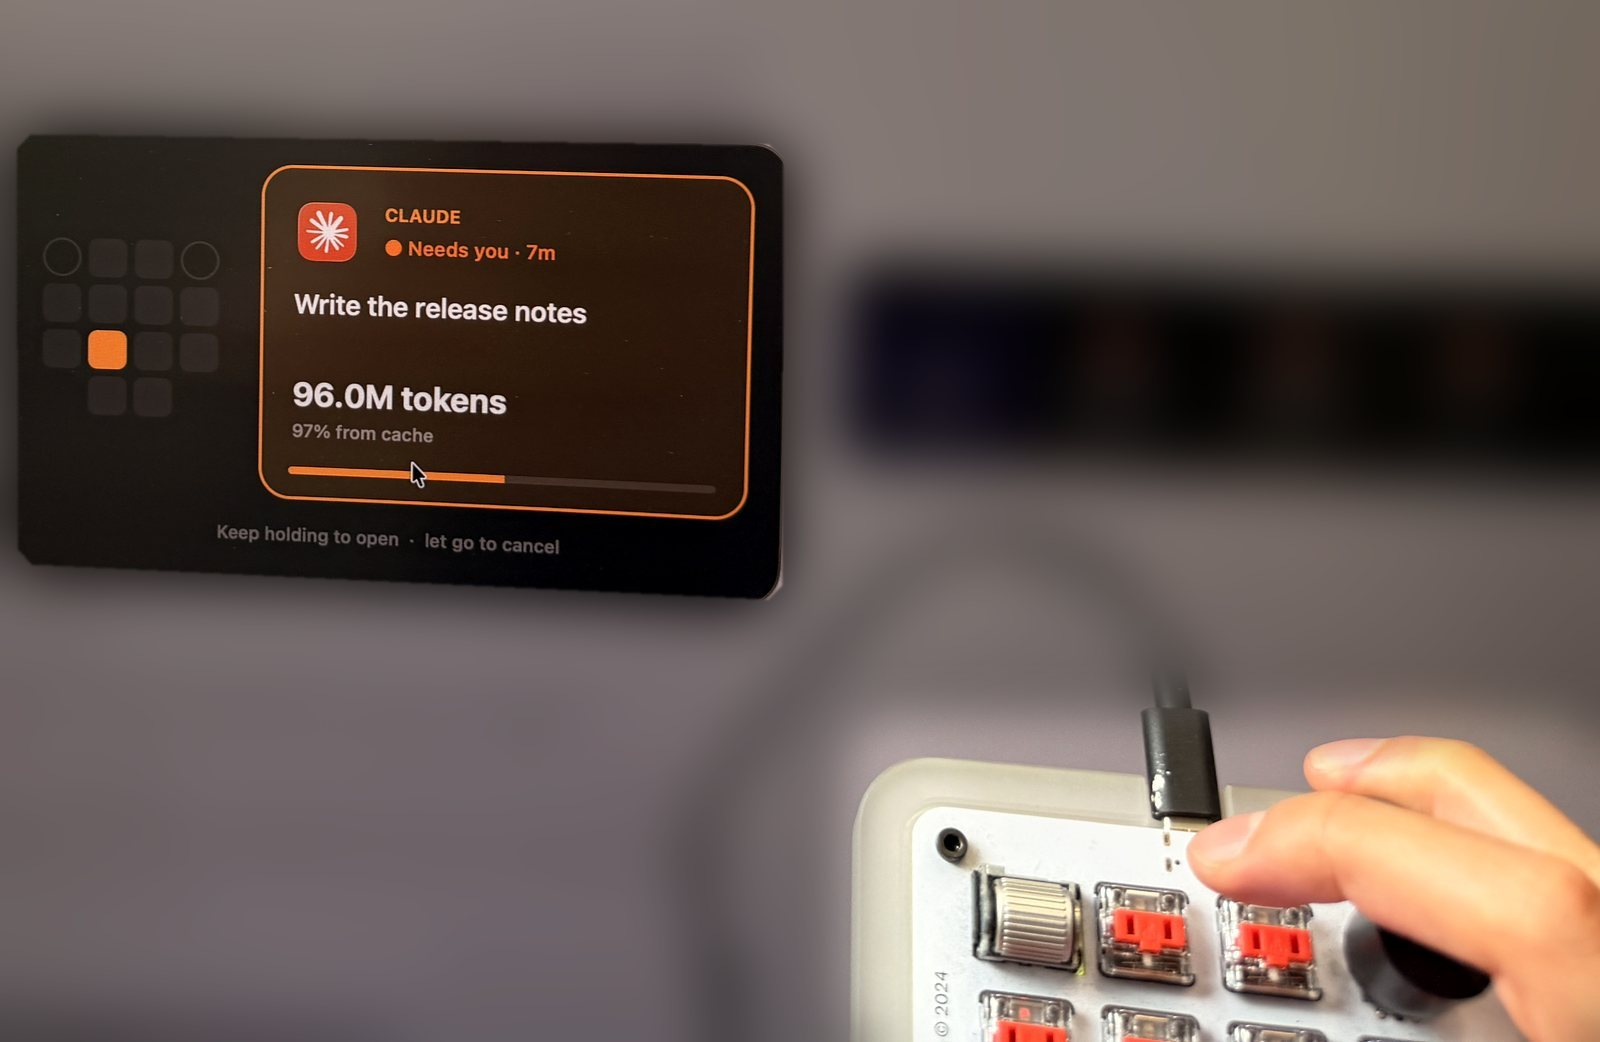
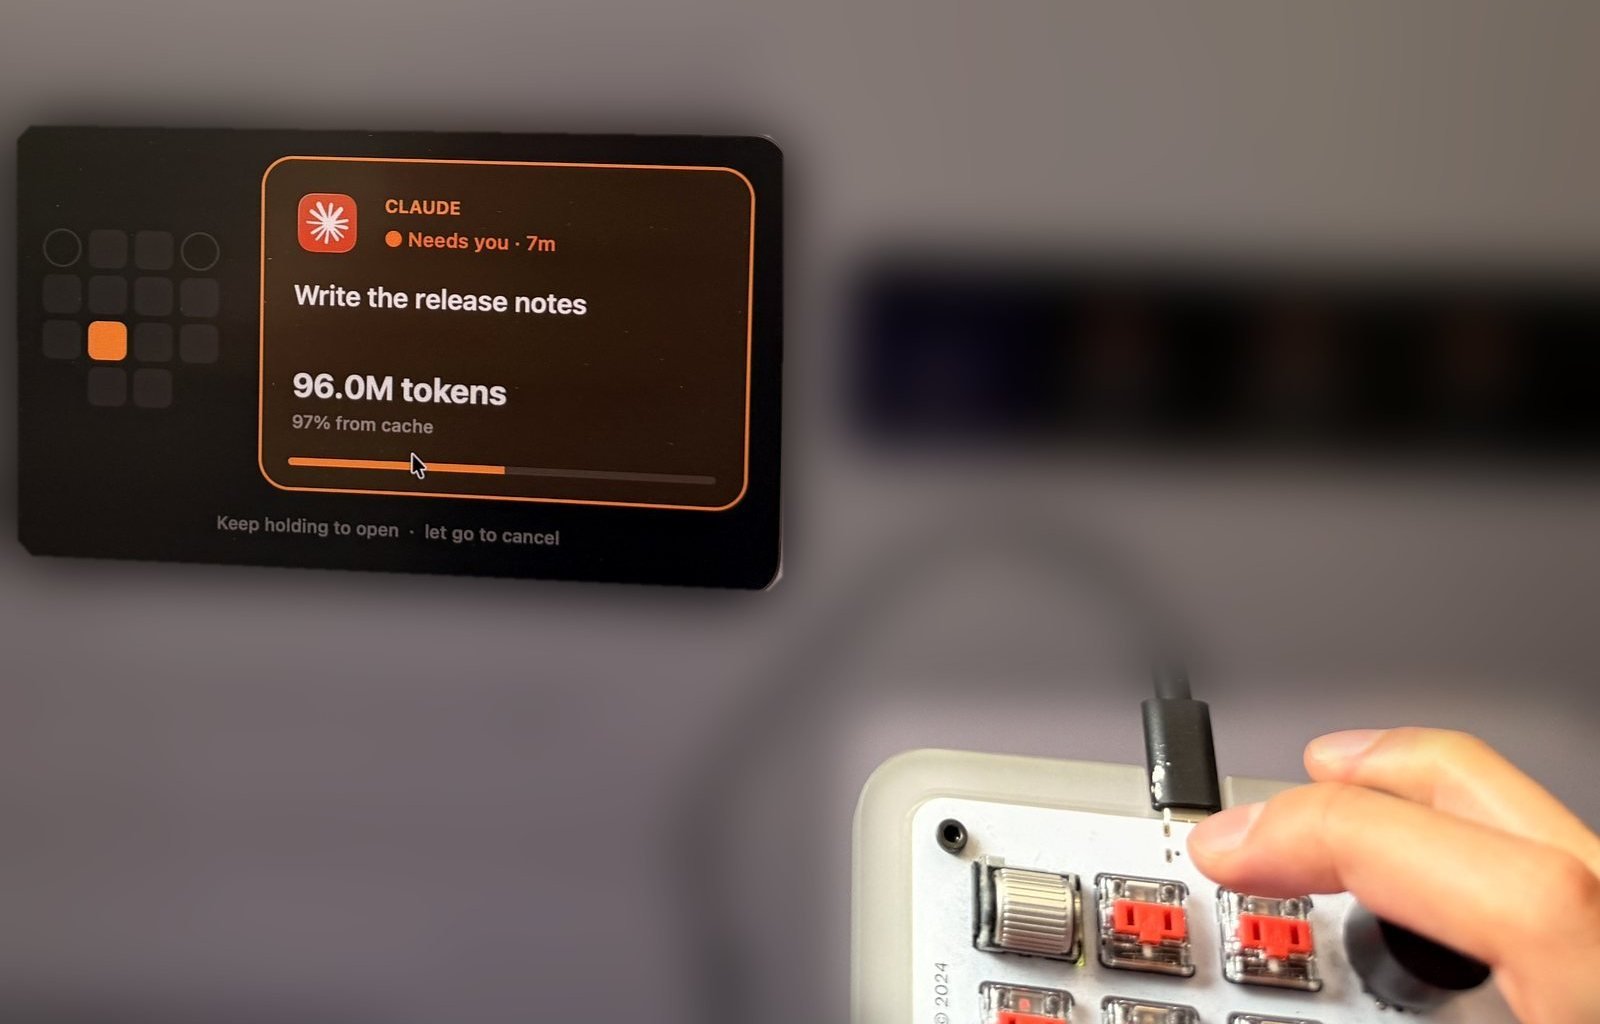
README: give each animation its own row, pair the desk photos

diff --git a/README.md b/README.md
@@ -43,8 +43,7 @@ Press a lit key and its session appears on screen. Keep holding for a second and
 the window opens: Claude, Codex, or Cursor's Agents window. Let go to cancel.
 
 <p align="center">
-  <img src="docs/media/hold-to-open.gif" width="49%" alt="Hold-to-open panel filling its progress bar">
-  <img src="docs/media/hold-photo.jpg" width="49%" alt="Pressing a key brings up the session on screen">
+  <img src="docs/media/hold-to-open.gif" width="600" alt="Hold-to-open panel filling its progress bar">
 </p>
 
 ### Scroll to switch.
@@ -53,8 +52,16 @@ The wheel walks through your sessions laid out in the shape of the pad, then
 through your most recent ones. Stop turning and the selected session opens.
 
 <p align="center">
-  <img src="docs/media/wheel-switcher.gif" width="49%" alt="Wheel switcher moving across sessions laid out like the pad">
-  <img src="docs/media/in-use.jpg" width="49%" alt="Using the pad next to the on-screen panel">
+  <img src="docs/media/wheel-switcher.gif" width="460" alt="Wheel switcher moving across sessions laid out like the pad">
+</p>
+
+### On your desk.
+
+The panel appears wherever you're working and gets out of the way when you let go.
+
+<p align="center">
+  <img src="docs/media/hold-photo.jpg" width="49%" alt="Pressing a key brings up its session on screen">
+  <img src="docs/media/in-use.jpg" width="49%" alt="Holding a key while the panel fills">
 </p>
 
 ### Tokens, at a glance.
